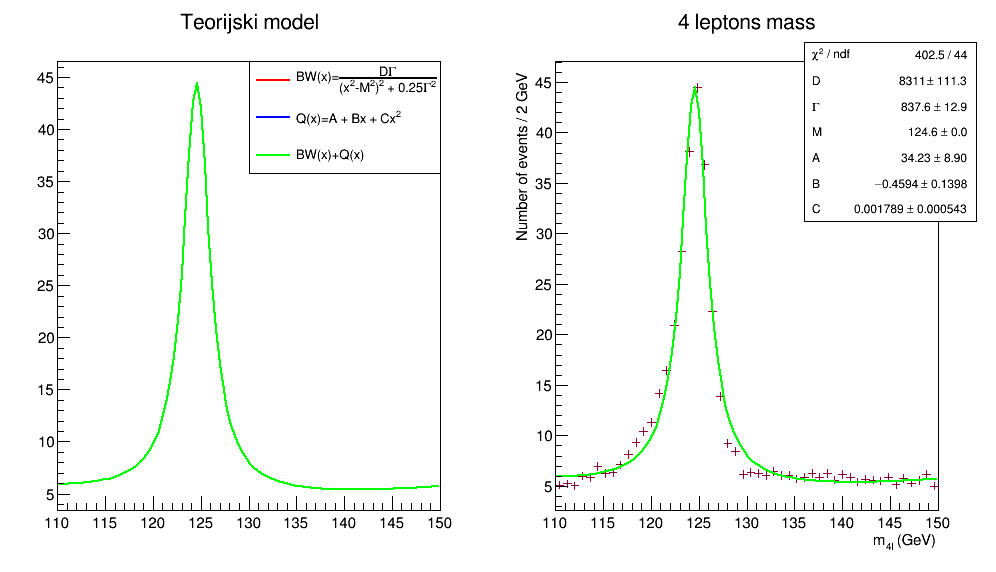
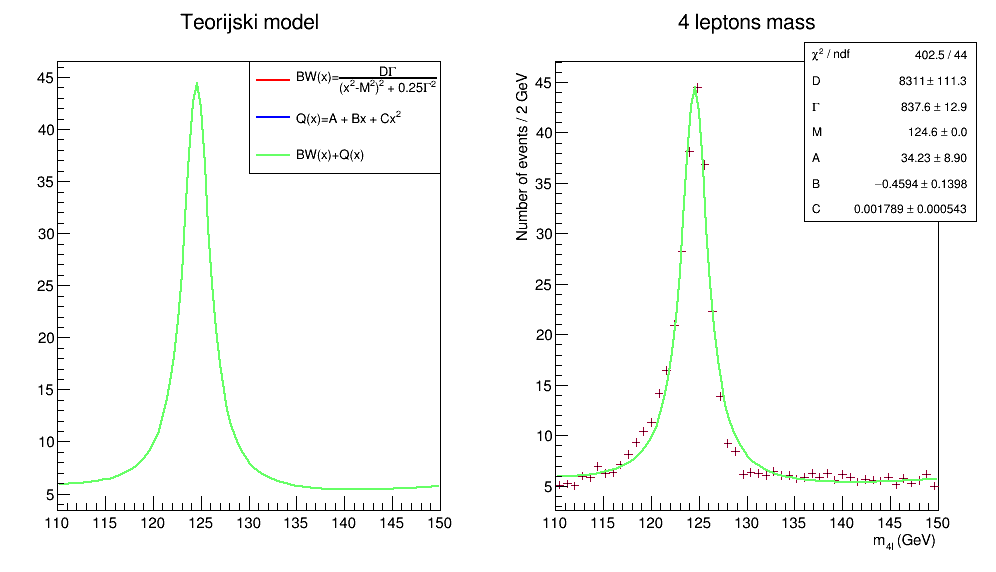
Zad 1

diff --git a/Vjezbe_8/Analyzer.cpp b/Vjezbe_8/Analyzer.cpp
@@ -371,7 +371,7 @@ void Analyzer::PlotPublicHistograms()
 
     f_bw->SetLineColor(kRed);
     f_sq->SetLineColor(kBlue);
-    f_sum->SetLineColor(kGreen);
+    f_sum->SetLineColor(kGreen-7);
 
     f_sum->SetTitle("Teorijski model");
     f_sum->Draw();
